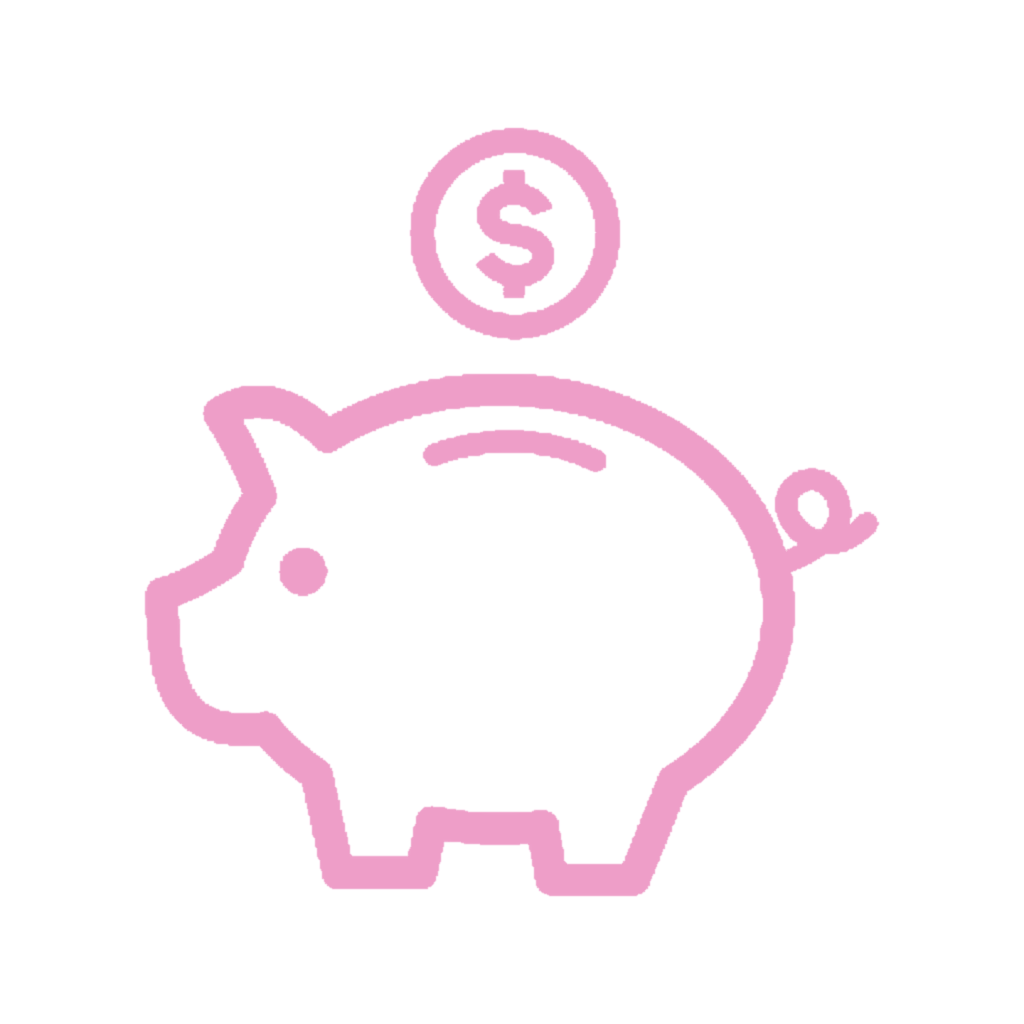
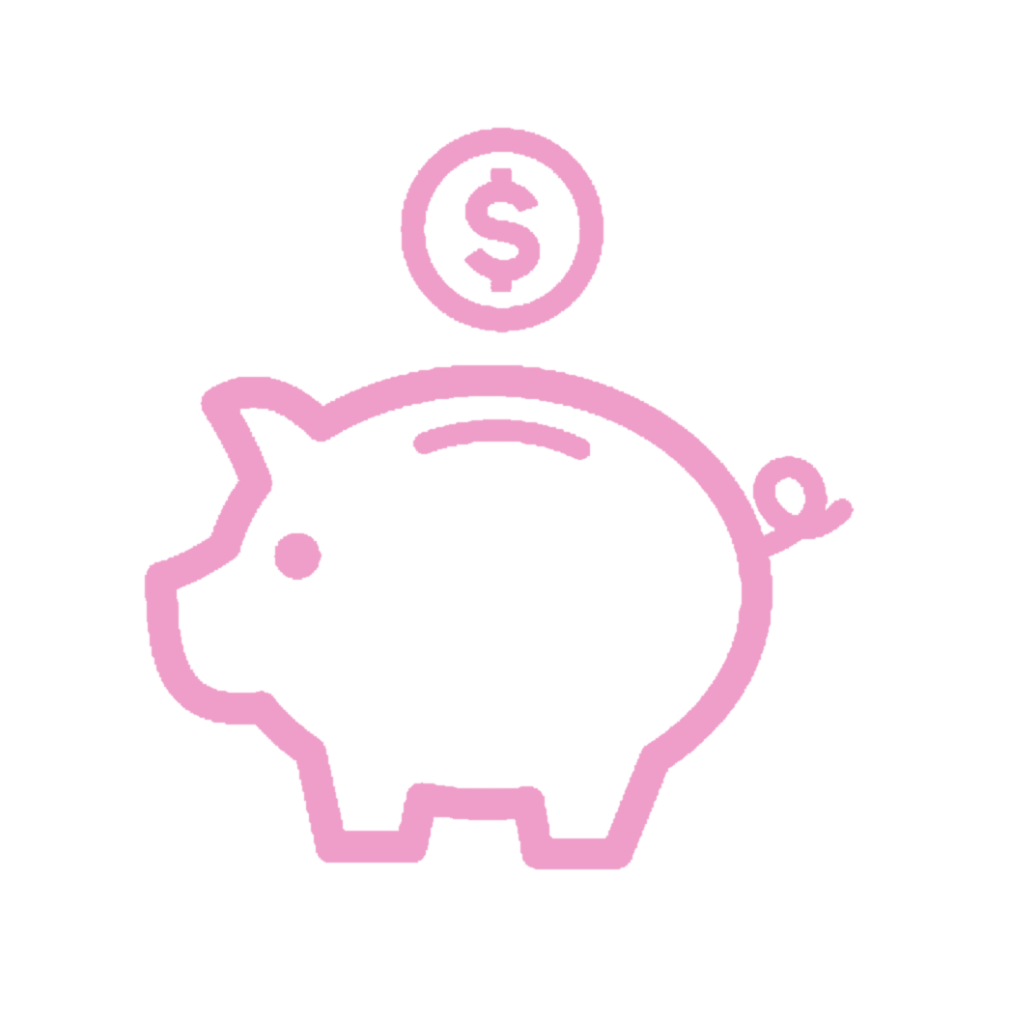
changed image

diff --git a/html_css/CSS/index.html b/html_css/CSS/index.html
@@ -450,7 +450,9 @@
       
     </div>
     <div id="admin-points" class="column">
-
+      <div class="box">
+        <img class = "attendance-image" src="images/piggy.png" alt="">
+      </div>
     </div>
   </div>
 
